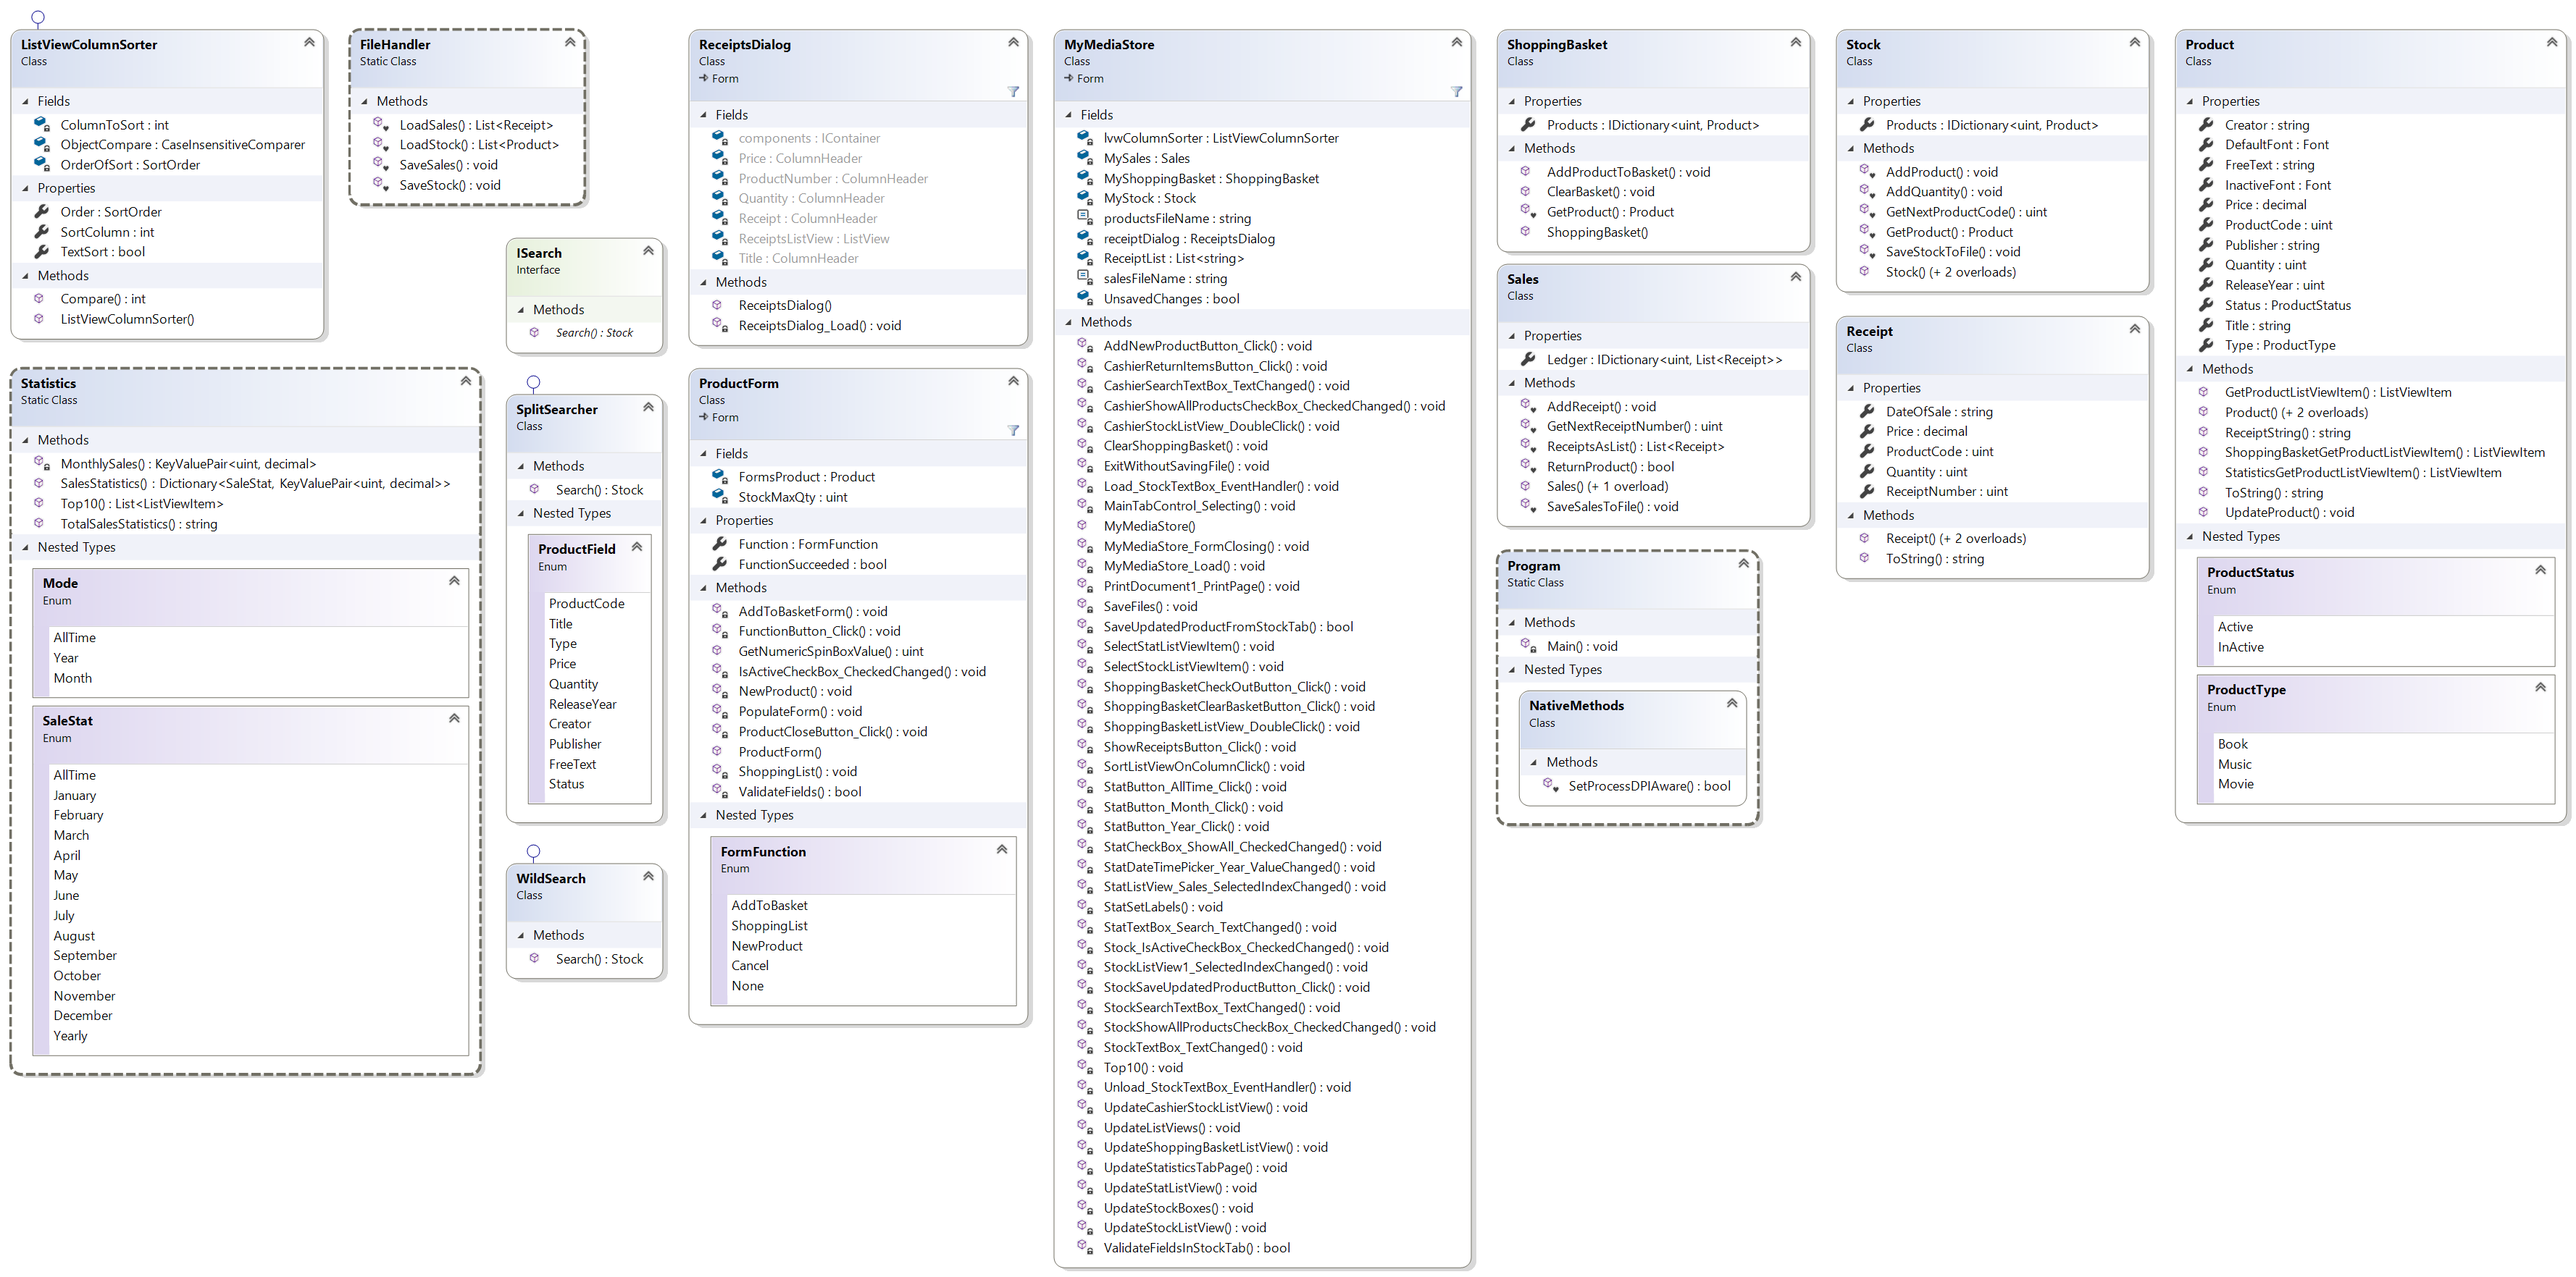
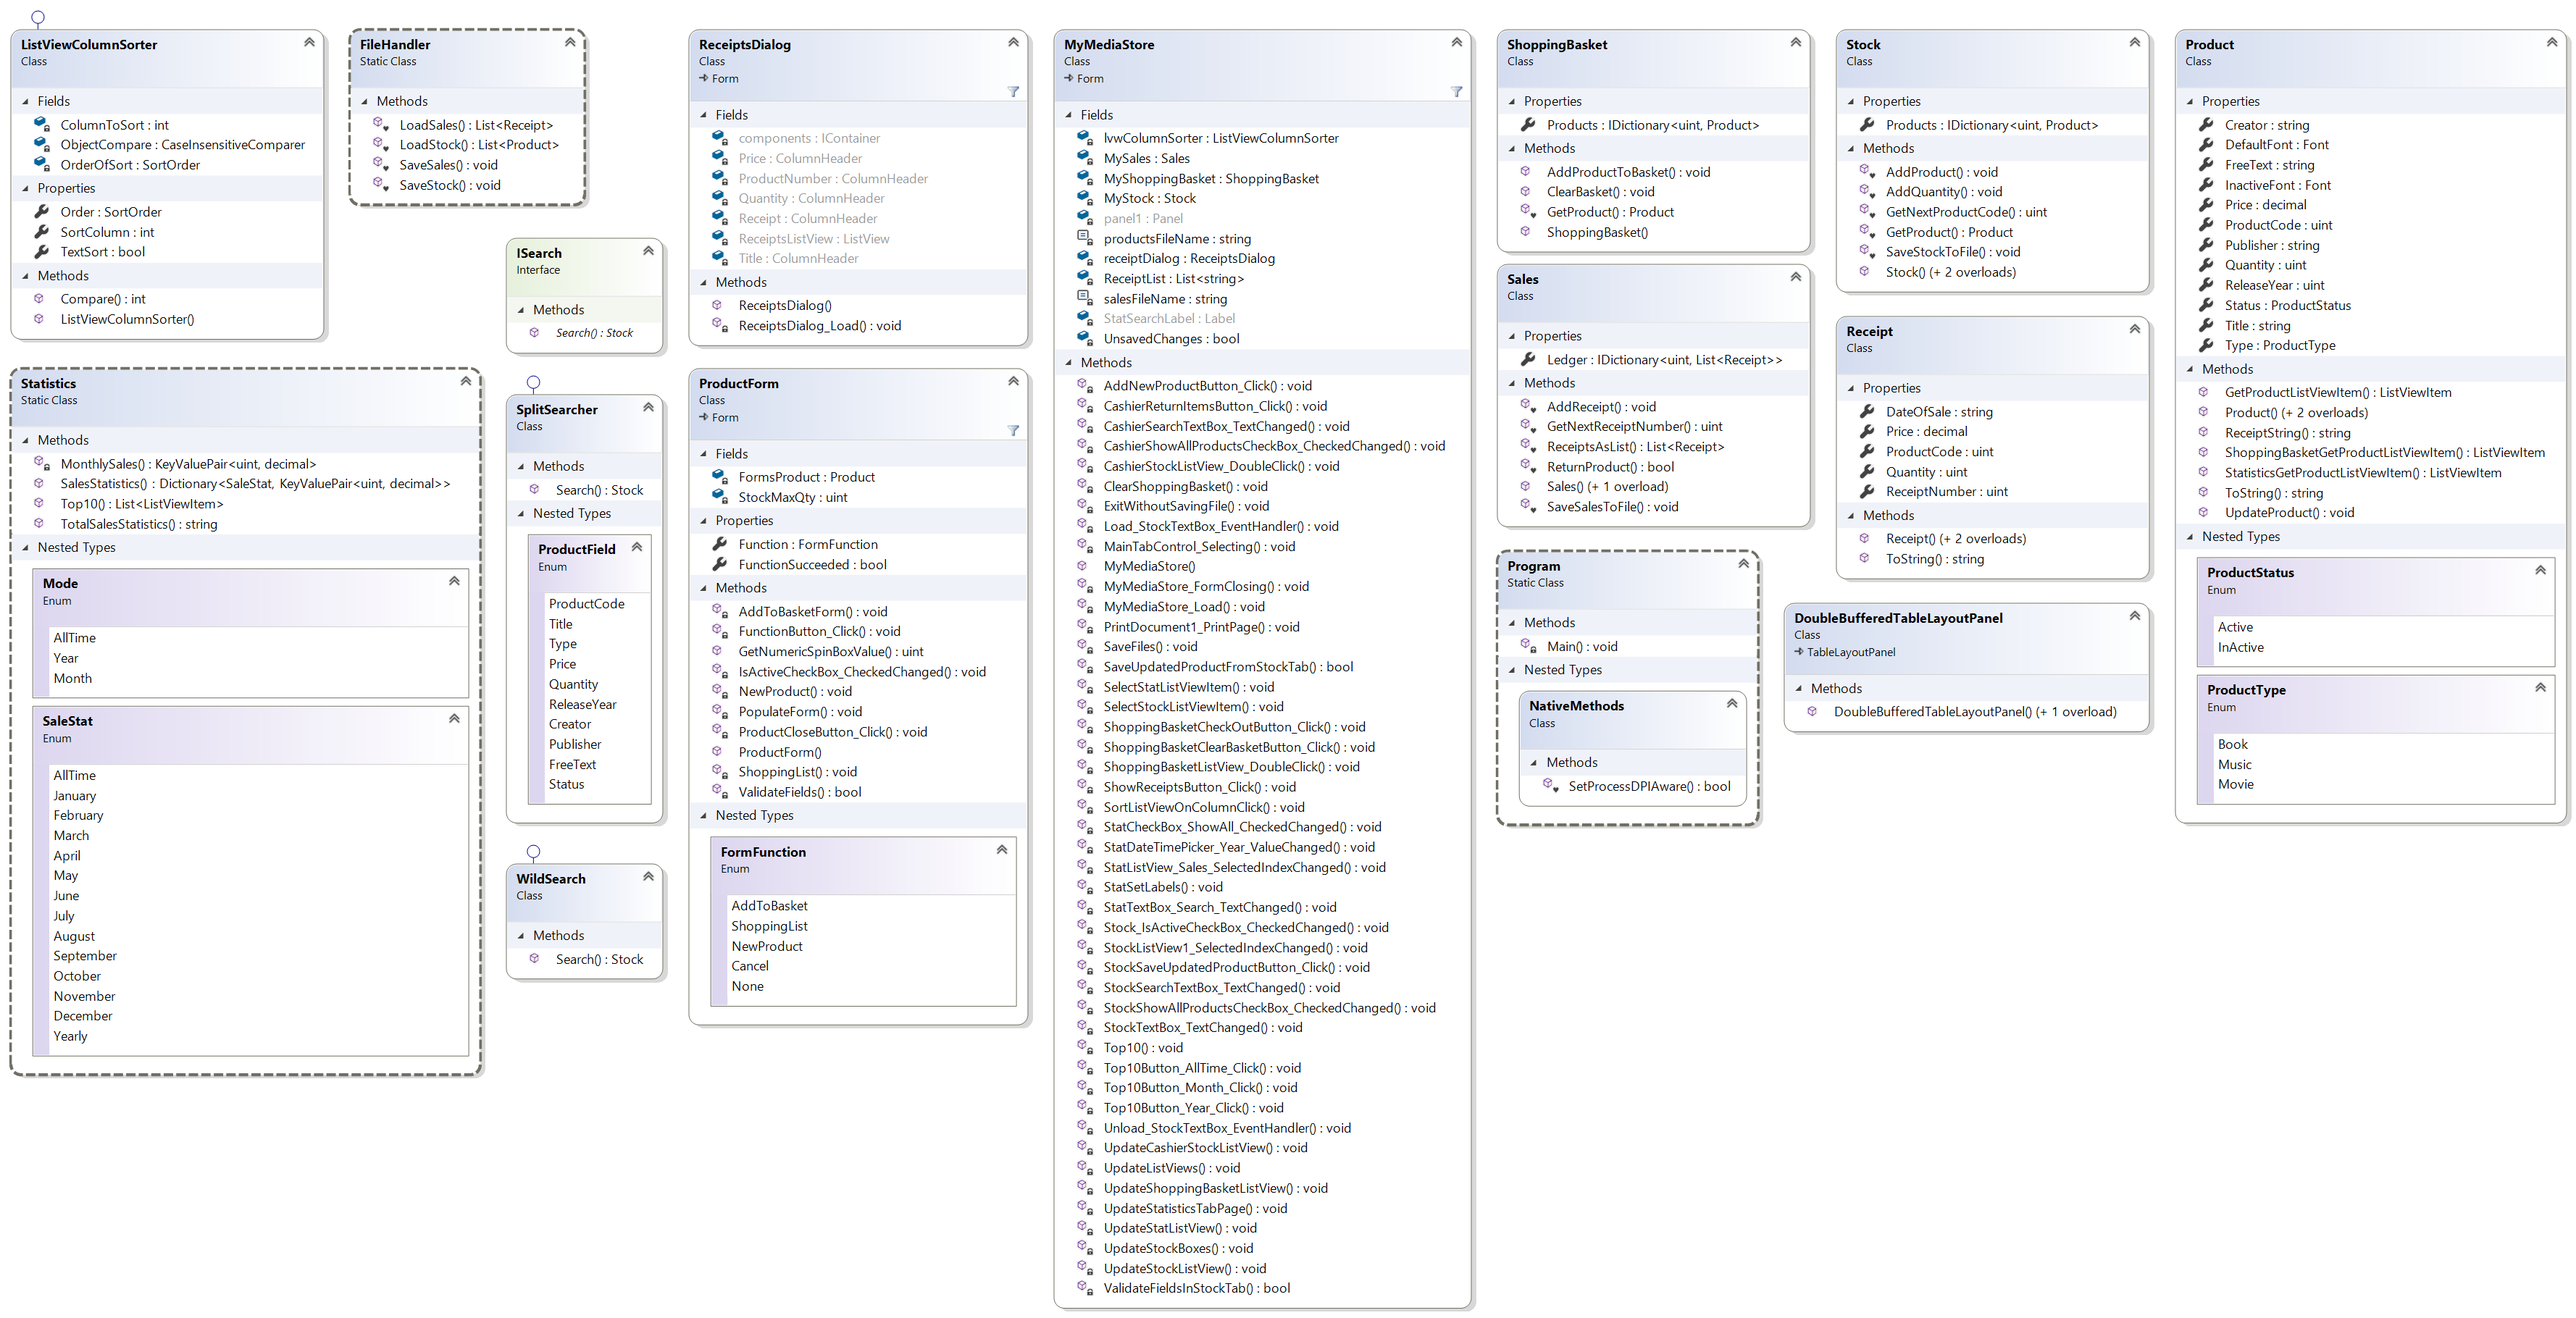
kommenterat kod och uppdaterat klassdiagram

diff --git a/MediaStore/DoubleBufferedTableLayoutPanel.cs b/MediaStore/DoubleBufferedTableLayoutPanel.cs
@@ -14,11 +14,14 @@ namespace MediaStore
     /// Double Buffered layout panel - removes flicker during resize operations.
     /// https://www.richard-banks.org/2007/09/how-to-create-flicker-free.html
     /// [2020-04-19]
+    /// 
+    /// Double Buffered Table Layout Panel
+    /// https://docs.telerik.com/devtools/winforms/knowledge-base/double-buffered-table-layout
+    /// [2020-04-19]
     /// </summary>
     public partial class DoubleBufferedTableLayoutPanel : TableLayoutPanel
     {
-        public DoubleBufferedTableLayoutPanel()
-        : base()
+        public DoubleBufferedTableLayoutPanel() : base()
         {
             SetStyle(ControlStyles.UserPaint | ControlStyles.AllPaintingInWmPaint | ControlStyles.OptimizedDoubleBuffer, true);
         }
